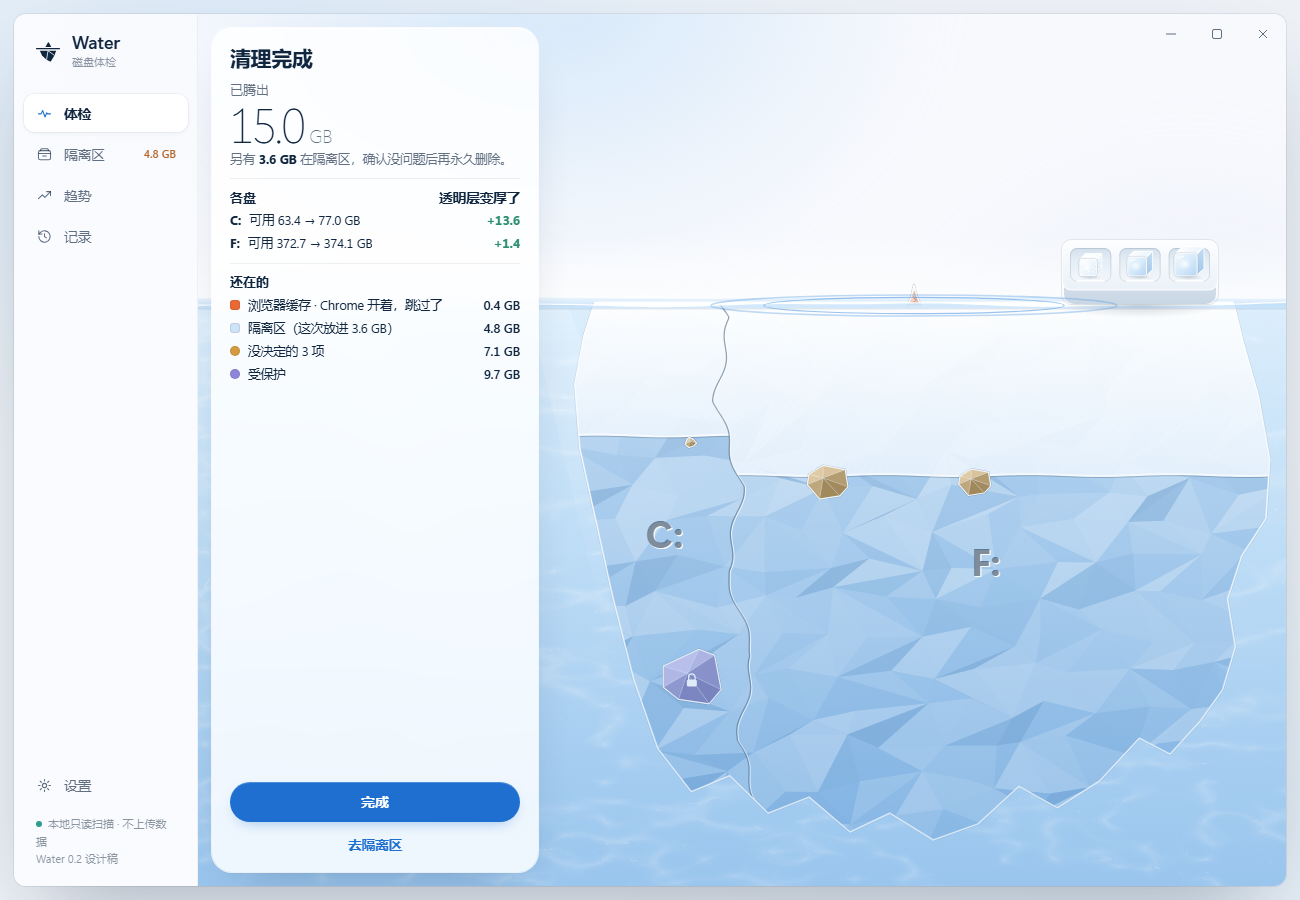
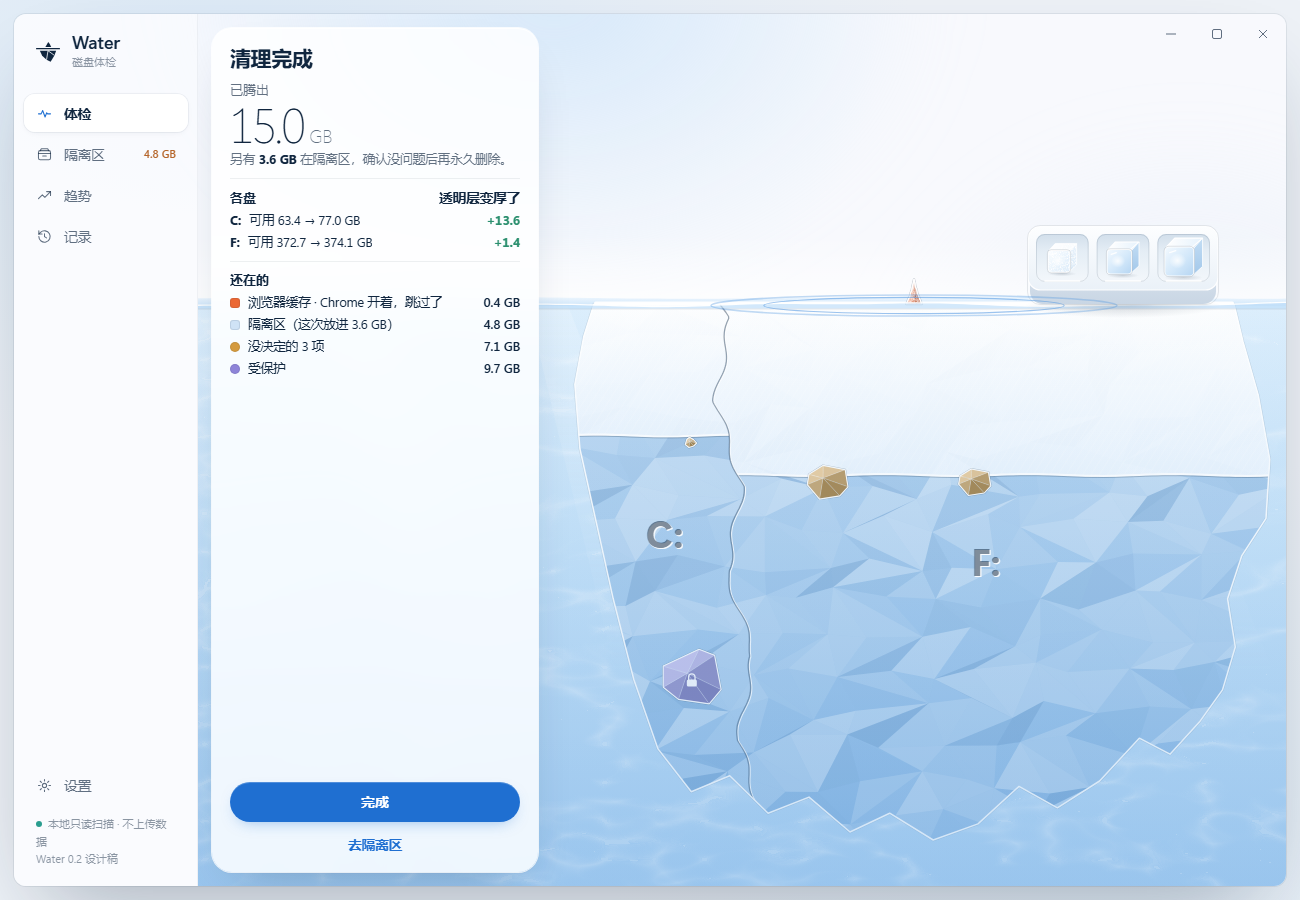
Enlarge the iceberg tip in the skeuomorphic prototype (draft 3)
The user chose to draw the tip enlarged rather than at true scale. Above
the waterline now has its own scale: tip area is proportional to
cleanable bytes with 32 GB filling it (height = 220 px x sqrt(min(1,
bytes / 32 GB))), so 15.4 GB comes out at about 0.69 of the full height
and the category bands are easy to see; the water below keeps true
capacity scale. The text panel says so in one muted line. The scan
camera is anchored horizontally on the tip, so it stays centred from the
first frame (early zoom 1.35x) to the last.

Sample totals fixed: results needs-review 10.7 GB (was 11.0), late scan
14.0 GB to match C, the space scene's stones add up to 651.8 GB.

diff --git a/docs/design/water-ui-v2/viz-skeuo.html b/docs/design/water-ui-v2/viz-skeuo.html
@@ -34,7 +34,7 @@
 .psec{display:flex;align-items:baseline;gap:8px;font-weight:600;font-size:13px;margin:8px 0 2px;padding-top:8px;border-top:1px solid var(--w-hairline);white-space:nowrap}
 .psec .pr{margin-left:auto;font-family:var(--w-font-display);font-size:13.5px;font-weight:600}
 .psec small{font-weight:400;color:var(--w-ink-3);font-size:11.5px;font-family:var(--w-font)}
-.prow{display:flex;align-items:center;gap:8px;min-height:23px;font-size:12.5px;border-radius:8px;padding:0 8px;margin:0 -8px;white-space:nowrap;transition:background .15s}
+.prow{display:flex;align-items:center;gap:8px;min-height:22px;font-size:12.5px;border-radius:8px;padding:0 8px;margin:0 -8px;white-space:nowrap;transition:background .15s}
 .prow .nm{overflow:hidden;text-overflow:ellipsis;min-width:0}
 .prow .sz{margin-left:auto;font-weight:600;white-space:nowrap}
 .prow .px{color:var(--w-ink-3);font-size:11.5px;white-space:nowrap;min-width:44px;text-align:right}
@@ -57,10 +57,10 @@
 .drow .l1 i{width:7px;height:7px;border-radius:50%;background:var(--w-level-confirm);flex:none}
 .drow .l1 .nm{font-weight:600;overflow:hidden;text-overflow:ellipsis;white-space:nowrap;flex:1;min-width:0}
 .drow .l1 .sz{font-weight:600;white-space:nowrap}
-.drow .l2{display:flex;gap:6px;align-items:center;margin:1px 0 0 14px;min-height:22px}
+.drow .l2{display:flex;gap:6px;align-items:center;margin:1px 0 0 14px;min-height:21px}
 .drow .ev,.qrow .ev{flex:1;min-width:0;color:var(--w-ink-3);font-size:11.5px;overflow:hidden;text-overflow:ellipsis;white-space:nowrap}
 .drow .ev.grow{color:var(--w-growth)}
-.drow .btn{height:22px;padding:0 11px;font-size:12px}
+.drow .btn{height:21px;padding:0 11px;font-size:12px}
 .drow .dn{display:none;flex:1;color:var(--w-ink-2);font-size:12px}
 .drow.decided .btn,.drow.decided .ev{display:none}.drow.decided .dn{display:block}
 .drow.sel{background:rgba(212,154,62,.08)}
@@ -75,6 +75,7 @@
 .qrow .bt .link{font-size:12.5px}
 .qrow .dn{font-size:12px;color:var(--w-ink-2);margin-top:6px}
 .qrow .dn:empty{display:none}
+.pnote{font-size:11.5px;color:var(--w-ink-3);line-height:1.4;margin:0 0 3px;white-space:nowrap}
 .pfoot{margin-top:auto;padding-top:12px}
 .pbtn{width:100%}
 .legend.wrap{flex-wrap:wrap;gap:6px 14px;margin-top:4px}
@@ -452,11 +453,15 @@ function spireBands(bytes){
   const tris=[];if(bytes[i]>1e-6)SP_TRIS.forEach(t=>{const q=cl(t.p);if(q.length>=3&&polyArea(q)>1e-7)tris.push({p:q,b:t.b});});
   out.push({poly:bytes[i]>1e-6?cl(SPIRE):[],tris});}
  return out;}
+/* The tip (above the waterline) has its own magnified scale; the body below keeps true capacity scale.
+   Tip area ∝ cleanable bytes against a fixed reference: a 32 GB tip is TIP_HMAX tall, so height = TIP_HMAX × sqrt(bytes / 32). */
+const TIP_REF=32,TIP_HMAX=220,K_TIP=SP_AREA*TIP_HMAX*TIP_HMAX/SP_ASP/TIP_REF;
+function drawTip(g,cx,yw,bands){return drawSpire(g,cx,yw,K_TIP,bands,{cap:TIP_REF});}
 /* bands: [{gb, c (category colour), id, off, melt, hot}] from the waterline up. Returns screen geometry per band. */
 function drawSpire(g,cx,yw,k,bands,opt){
  opt=opt||{};const tot=bands.reduce((a,b)=>a+b.gb,0);const res={bands:[],w:0,h:0,cx};
  if(tot*k<4)return res;
- const s=Math.sqrt(tot*k/(SP_AREA*SP_ASP)),h=s*SP_ASP;res.w=s;res.h=h;res.top=yw-h;
+ const s=Math.sqrt((opt.cap?Math.min(tot,opt.cap):tot)*k/(SP_AREA*SP_ASP)),h=s*SP_ASP;res.w=s;res.h=h;res.top=yw-h;
  const P=p=>[cx+p[0]*s,yw-p[1]*h];
  const geo=spireBands(bands.map(b=>b.gb));
  S('path',{d:dPath(SPIRE.map(P)),fill:'none',stroke:'rgba(16,38,63,.22)','stroke-width':2.4,'stroke-linejoin':'round'},g);
@@ -588,7 +593,7 @@ scene('home',{nav:'check',dur:0,
   const sg=segP(P,[['scope','本次范围'],['whole','本机全部']],st.view,v=>{st.view=v;show('home',{live:true});});sg.style.cssText='align-self:flex-start;margin-top:10px';
   psec(P,'各盘',keys.length===4?'本机 4 个盘':'这次的 '+keys.length+' 个盘');
   keys.forEach(k=>{const d=DRV[k];const r=drvRow(P,k,'可用 '+f1(d.free)+' GB');if(k==='E')H('span','warn',r._n,'  快满了');r._s.textContent='共 '+fmtCap(d.cap)+' GB';r._s.classList.add('mut');this.rows['p'+k]=r;hoverRow(this,r,'p'+k);});
-  psec(P,'上次体检 · 11 月 2 日','15.4 GB');
+  psec(P,'上次体检 · 11 月 2 日','15.4 GB');H('div','pnote',P,'冰山一角放大画：面积按可清字节，32 GB 画满');
   CAT.slice().reverse().forEach(b=>{const r=prow(P,{sw:b.c,n:b.n,s:f1(b.gb)+' GB'});this.rows[b.id]=r;hoverRow(this,r,b.id);});
   H('div','pcap',P,'其中 C 盘 14.0 GB · F 盘 1.4 GB');
   psec(P,'这次检查哪里？');
@@ -598,16 +603,17 @@ scene('home',{nav:'check',dur:0,
   const ft=H('div','pfoot',P);const go=H('button','btn btn-primary pbtn',ft,'开始体检');go.onclick=()=>show('scan',{play:true});const cp=H('div','pcap',ft,'只读取文件名、大小与时间');cp.style.textAlign='center';
  },
  update(t,amb){const R=this.R;R.update(amb);clear(R.gTip);clear(R.gLead);
-  const res=drawSpire(R.gTip,R.cx,R.yw,R.M.k,tipBands(b=>b.gb,{hot:this.hot}));
+  const res=drawTip(R.gTip,R.cx,R.yw,tipBands(b=>b.gb,{hot:this.hot}));
   res.bands.forEach(bb=>{if(bb)lead(R.gLead,bb.c[0],bb.c[1],this.rows[bb.b.id],this.hot===bb.b.id);});
   if(this.hot&&this.hot[0]==='p'){const L=this.letters[this.hot.slice(1)];if(L)lead(R.gLead,L.x,L.y,this.rows[this.hot],true);}
   markHot(this);}});
 
 /* ---------- 2. scan: the tip grows, the camera pulls back ---------- */
-const SCAN_STEPS=[[800,1.2],[1600,3.9],[2400,6.4],[3200,9.8],[4000,12.1],[4800,14.0],[5600,15.4]];
+const SCAN_STEPS=[[500,1.2],[1300,3.9],[2100,6.4],[2900,9.8],[3700,12.1],[4500,14.0],[5400,15.4]];
+const C_DONE=4850,F_DONE=5750;
 const FILL=[['ai','C'],['br','C'],['up','C'],['ot','C'],['dv','C'],['dv','F']];
 function catFill(found){let left=found;const g={};FILL.forEach(([id,k])=>{const b=CAT.find(x=>x.id===id);const v=clamp(left,0,b[k]);g[id]=(g[id]||0)+v;left-=v;});return g;}
-const SCAN_SEEN={codex:2000,kimi:3200,avd:5000,apk:5250,w35b:5500};
+const SCAN_SEEN={codex:2000,kimi:2900,avd:5000,apk:5250,w35b:5500};
 scene('scan',{nav:'check',dur:6200,
  build(el){this.rows={};
   const R=this.R=stage(el,GEO,'scope');bodyLetters(R.gText,R.B);this.under=S('g',null,R.gUnder);
@@ -617,19 +623,20 @@ scene('scan',{nav:'check',dur:6200,
   psec(P,'正在看的位置');
   this.loc=[['C 盘常用位置','7 类'],['F 盘','整盘']].map(r=>{const row=prow(P,{ic:true,n:r[0]+'  ',s:''});H('span','mut',row._n,r[1]);return row;});
   const stop=H('button','btn btn-glass btn-sm',P,'停止');stop.style.cssText='align-self:flex-start;margin-top:10px';
-  this.secF=psec(P,'已找到','0.0 GB');
+  this.secF=psec(P,'已找到','0.0 GB');H('div','pnote',P,'冰山一角放大画：面积按可清字节，32 GB 画满');
   this.crow={};CAT.slice().reverse().forEach(b=>{this.crow[b.id]=prow(P,{sw:b.c,n:b.n,s:'—'});});
   this.rrev=prow(P,{sw:AMBER,round:true,n:'需要你看',s:'—'});this.rpro=prow(P,{sw:VIOLET,round:true,n:'受保护',s:'—'});
   this.files=H('div','pcap',P,'');this.files.style.marginTop='8px';
   H('div','pfoot pcap',P,'声呐一个盘一个盘地扫。找到的东西浮上水面，冰山一点点长高，视野也一点点拉远、变深。');
  },
  update(t,amb){const R=this.R,M=R.M,B=R.B,yw=R.yw;R.update(amb);
-  /* close and shallow at first (the C partition and the tip), then back and deeper to the full view */
-  const cq=easeIO(seg(t,150,5900)),pc=M.byKey.C,f0x=lerp(pc.xm,R.cx,.45),fx=lerp(f0x,R.cx,cq),fy=lerp(yw+60,yw+120,cq);
-  R.cam(lerp(1.9,1,cq),fx,fy,lerp(730,fx,cq),lerp(380,fy,cq));
+  /* horizontally the camera stays on the tip (the iceberg's centre), so the tip never moves sideways;
+     it only starts closer and shallower (1.35x) and pulls back and deepens to the full view */
+  const cq=easeIO(seg(t,150,5900)),fy=lerp(yw+60,yw+120,cq);
+  R.cam(lerp(1.35,1,cq),R.cx,fy,R.cx,lerp(380,fy,cq));
   let found=0,prev=0;SCAN_STEPS.forEach(s=>{found+=(s[1]-prev)*ease((t-s[0])/350);prev=s[1];});
   const g=catFill(found);this.num.textContent=f1(found);this.secF._r.textContent=f1(found)+' GB';
-  clear(R.gTip);drawSpire(R.gTip,R.cx,yw,M.k,tipBands(b=>g[b.id]||0));
+  clear(R.gTip);drawTip(R.gTip,R.cx,yw,tipBands(b=>g[b.id]||0));
   clear(this.under);
   const co=ease((t-1200)/800);if(co>0)drawCore(this.under,R,{op:co});
   let rev=0;CARDS.forEach(c=>{const ta=SCAN_SEEN[c.id];if(t<ta)return;const op=ease((t-ta)/400);rev+=c.gb*op;const fl=1-seg(t,ta,ta+900);const p=chunkXY(R,c);drawChunk(this.under,CSH(c),p[0],p[1],c.gb*M.k,{color:AMBER,op,flash:fl>.02?fl:0});});
@@ -638,16 +645,16 @@ scene('scan',{nav:'check',dur:6200,
    const rr=this.rise[i],p=M.byKey[rr.drv];const y0=yw+R.geo.D*.8,x0=M.at(p,y0,rr.fx),x1=R.cx+(i%2?6:-6),y1=yw+3;const q=easeIO((t-sp)/(ta-sp)),fz=ease((t-ta)/350),fuse=1-fz;
    const x=lerp(x0,x1,q)+Math.sin(q*6+i)*5*(1-q),y=lerp(y0,y1-9,q)-12*fz;drawChunk(this.under,shapeOf('r'+i,500+i),x,y,inc*M.k*fuse*fuse,{color:best?best.c:null,op:clamp(q*5)*fuse});
    for(let k2=0;k2<3;k2++){const bq=clamp(q-.07*(k2+1));if(bq>0&&bq<1)S('circle',{cx:lerp(x0,x1,bq)+Math.sin(bq*9+k2)*3,cy:lerp(y0,y1,bq)+9+k2*3,r:1.3+k2*.5,fill:'none',stroke:'rgba(255,255,255,.9)','stroke-width':.8},this.under);}});
-  const act=t<4800?'C':(t<5800?'F':null);
+  const act=t<C_DONE?'C':(t<F_DONE?'F':null);
   ['C','F'].forEach(k=>{B.setHL(k,k===act);clear(B.parts[k].sonar);});
-  if(act){const p=M.byKey[act],h=B.parts[act],t0=act==='C'?0:4800,Rm=Math.max(Math.abs(R.cx-p.x0),Math.abs(R.cx-p.x1))+R.geo.D;
+  if(act){const p=M.byKey[act],h=B.parts[act],t0=act==='C'?0:C_DONE,Rm=Math.max(Math.abs(R.cx-p.x0),Math.abs(R.cx-p.x1))+R.geo.D;
    for(let m=0;m<8;m++){const age=t-t0-m*1600;if(age<0||age>2600)continue;const q=age/2600,rr=10+q*Rm,fo=Math.pow(1-q,.8);
     S('circle',{cx:R.cx,cy:yw,r:rr,fill:'none',stroke:'#fff','stroke-width':16,opacity:(.26*fo).toFixed(3)},h.sonar);
     S('circle',{cx:R.cx,cy:yw,r:rr,fill:'none',stroke:'#fff','stroke-width':2.4,opacity:(.95*fo).toFixed(3)},h.sonar);
     S('circle',{cx:R.cx,cy:yw,r:Math.max(1,rr-10),fill:'none',stroke:'var(--w-accent)','stroke-width':1.2,opacity:(.55*fo).toFixed(3)},h.sonar);}}
   const setLoc=(r,mode,txt)=>{setIc(r,mode);r._s.textContent=txt;r._s.classList.toggle('mut',mode!=='ok');};
-  setLoc(this.loc[0],t<4800?'run':'ok',t<4800?'扫描中':'14.0 GB');
-  setLoc(this.loc[1],t<4800?'wait':(t<5800?'run':'ok'),t<4800?'等待':(t<5800?'扫描中':'1.4 GB'));
+  setLoc(this.loc[0],t<C_DONE?'run':'ok',t<C_DONE?'扫描中':'14.0 GB');
+  setLoc(this.loc[1],t<C_DONE?'wait':(t<F_DONE?'run':'ok'),t<C_DONE?'等待':(t<F_DONE?'扫描中':'1.4 GB'));
   CAT.forEach(b=>{const r=this.crow[b.id],v=g[b.id]||0;r._s.textContent=v>.05?f1(v)+' GB':'—';r.classList.toggle('dim',v<=.05);});
   this.rrev._s.textContent=rev>.05?f1(rev)+' GB':'—';this.rrev.classList.toggle('dim',rev<=.05);
   this.rpro._s.textContent=co>0?'9.7 GB':'—';this.rpro.classList.toggle('dim',co<=0);
@@ -668,11 +675,11 @@ scene('results',{nav:'check',dur:0,
   heroP(P,'可以放心清理','15.4');
   const mk=H('div','pcap',P);mk.append('缓存 12.1 GB · 旧版本 3.3 GB · ');H('span',null,mk,'比上次多 2.1 GB').style.color='var(--w-growth)';
   this.btn=H('button','btn btn-primary pbtn',P,'清理推荐项 15.4 GB');this.btn.style.marginTop='12px';this.btn.onclick=()=>show('clean',{play:true});
-  this.s1=psec(P,'水面以上 · 推荐清理','15.4 GB');
+  this.s1=psec(P,'水面以上 · 推荐清理','15.4 GB');H('div','pnote',P,'冰山一角放大画：面积按可清字节，32 GB 画满');
   CAT.slice().reverse().forEach(b=>{const r=prow(P,{sw:b.c,n:b.n,s:f1(b.gb)+' GB'});r.classList.add('click');r.title='点一下：这次不清';r.onclick=()=>{st.off[b.id]=!st.off[b.id];self.sync();};this.rows[b.id]=r;hoverRow(this,r,b.id);});
   const chr=prow(P,{sw:AMBER,n:'你选的',s:''});this.rows.chosen=chr;hoverRow(this,chr,'chosen');
   this.skipCap=H('div','pcap',P,'');
-  psec(P,'水面下 · 需要你看','5 项 · 11.0 GB');
+  psec(P,'水面下 · 需要你看','5 项 · 10.7 GB');
   CARDS.forEach(c=>{const d=H('div','drow',P);const l1=H('div','l1',d);H('i',null,l1);const nm=H('span','nm',l1,c.n);nm.title=c.n;H('span','sz',l1,f1(c.gb)+' GB');
    const l2=H('div','l2',d);H('span','ev'+(c.leak?' grow':''),l2,c.drv+' 盘 · '+c.ev);const kb=H('button','btn btn-glass',l2,'保留');const cb=H('button','btn btn-outline',l2,'清理');d._dn=H('span','dn',l2);
    kb.onclick=()=>self.decide(c.id,'keep');cb.onclick=()=>self.decide(c.id,'clean');this.rows[c.id]=d;hoverRow(this,d,c.id);});
@@ -699,7 +706,7 @@ scene('results',{nav:'check',dur:0,
    if(d&&d.mode==='keep'){const dt=RM?1e9:n-d.t,p=ease(dt/900);y=o.y+40*p;fr=p;op=1-.3*p;}
    clear(o.g);if(vis)drawChunk(o.g,CSH(c),x,y,c.gb*M.k*sc*sc,{color:AMBER,frost:fr,op,hot:this.hot===c.id});
    if(ld&&this.hot===c.id)lead(R.gLead,x,y,this.rows[c.id],true);});
-  clear(R.gTip);const res=drawSpire(R.gTip,R.cx,yw,M.k,tipBands(b=>b.gb,{chosen:joined,off:st.off,hot:this.hot}));
+  clear(R.gTip);const res=drawTip(R.gTip,R.cx,yw,tipBands(b=>b.gb,{chosen:joined,off:st.off,hot:this.hot}));
   res.bands.forEach(bb=>{if(bb)lead(R.gLead,bb.c[0],bb.c[1],this.rows[bb.b.id],this.hot===bb.b.id);});
   if(this.hot==='core')lead(R.gLead,this.core[0],this.core[1],this.rows.core,true);
   if(this.hot&&this.hot[0]==='p'){const L=this.letters[this.hot.slice(1)];if(L)lead(R.gLead,L.x,L.y,this.rows[this.hot],true);}
@@ -709,16 +716,16 @@ scene('results',{nav:'check',dur:0,
 const CL_ORDER=[['dv',600,1100],['ot',1600,1000],['up',2500,1000],['br',3400,1100],['ai',4400,1200]];
 const SKIP={br:.4};
 function cleanState(t){const g={},melt={},p={};let fC=0,fF=0;CL_ORDER.forEach(o=>{const b=CAT.find(x=>x.id===o[0]);const keep=SKIP[b.id]||0,net=b.gb-keep;const q=ease(seg(t,o[1],o[1]+o[2]));const gone=net*q;g[b.id]=b.gb-gone;melt[b.id]=q>0&&q<1?q:0;p[b.id]=q;fC+=gone*((b.C-keep)/net);fF+=gone*(b.F/net);});return{g,melt,p,fC,fF};}
-function trayOnDeck(R){const w=156,h=50,x=R.geo.x1-w-16,y=R.yw-h-14;return drawTray(R.gTop,x,y,w,h,3);}
+function trayOnDeck(R){const w=190,h=64,x=R.geo.x1-w-16,y=R.yw-h-14;return drawTray(R.gTop,x,y,w,h,3);}
 scene('clean',{nav:'check',dur:6000,
  build(el){this.rows={};const R=this.R=stage(el,GEO,'scope'),M=R.M;bodyLetters(R.gText,R.B);drawCore(R.gUnder,R);
   CARDS.forEach(c=>{if(c.id==='codex'||c.id==='w35b')return;const p=chunkXY(R,c);drawChunk(R.gUnder,CSH(c),p[0],p[1],c.gb*M.k,{color:AMBER});});
-  this.tr=trayOnDeck(R);const a0=Math.sqrt(1.2*M.k),p0=cubeIn(this.tr.wells[0],a0);drawCube(this.tr.g,p0.x,p0.y,a0,{frost:1});
+  this.tr=trayOnDeck(R);const a0=Math.sqrt(1.2*K_TIP),p0=cubeIn(this.tr.wells[0],a0);drawCube(this.tr.g,p0.x,p0.y,a0,{frost:1});
   this.gFly=S('g',null,R.gTop);this.gDrop=S('g',null,R.gTop);
-  const r0=drawSpire(S('g',{opacity:0},R.gTop),R.cx,R.yw,M.k,tipBands(b=>b.gb,{chosen:3.6}));this.chAt=r0.bands[0].c;
+  const r0=drawTip(S('g',{opacity:0},R.gTop),R.cx,R.yw,tipBands(b=>b.gb,{chosen:3.6}));this.chAt=r0.bands[0].c;
   const P=panel(el);ptitle(P,'正在清理','推荐的缓存直接删除；你选的 2 项先放进隔离区，还在原来的盘上。');
   this.num=heroP(P,'已腾出','0.0');
-  psec(P,'清理进度','从冰山顶上开始');
+  psec(P,'清理进度','从冰山顶上开始');H('div','pnote',P,'冰山一角放大画：面积按可清字节，32 GB 画满');
   CL_ORDER.forEach(o=>{const b=CAT.find(x=>x.id===o[0]);this.rows[b.id]=prow(P,{ic:true,sw:b.c,n:b.n,s:f1(b.gb)+' GB',x:''});});
   this.rows.q=prow(P,{ic:true,sw:AMBER,n:'你选的 2 项 → 隔离区',s:'3.6 GB',x:''});
   psec(P,'各盘');this.dr={};['C','F'].forEach(k=>{const r=drvRow(P,k,'可用 '+f1(DRV[k].free)+' →');this.dr[k]=r._s;r._s.classList.add('acc');});
@@ -728,12 +735,12 @@ scene('clean',{nav:'check',dur:6000,
  update(t,amb){const R=this.R,M=R.M,yw=R.yw;R.update(amb);clear(R.gLead);
   const cs=cleanState(t);clear(R.gTip);clear(this.gFly);clear(this.gDrop);
   const lift=ease(seg(t,200,600));
-  const res=drawSpire(R.gTip,R.cx,yw,M.k,tipBands(b=>cs.g[b.id],{chosen:3.6*(1-lift),melt:cs.melt}));
+  const res=drawTip(R.gTip,R.cx,yw,tipBands(b=>cs.g[b.id],{chosen:3.6*(1-lift),melt:cs.melt}));
   res.bands.forEach(bb=>{if(!bb)return;const id=bb.b.id;if(id!=='chosen'&&cs.p[id]<1)lead(R.gLead,bb.c[0],bb.c[1],this.rows[id],!!cs.melt[id]);
    if(!bb.b.melt)return;const o=CL_ORDER.find(x=>x[0]===id);for(let j=0;j<6;j++){const t0=o[1]+j*o[2]/6,q=seg(t,t0,t0+520);if(q<=0)continue;const r=rng(j*13+o[1])();const x=bb.c[0]+(r-.5)*res.w*.5,y0=bb.c[1];
     if(q<1){const y=lerp(y0,yw,q*q);S('path',{d:`M${x.toFixed(1)} ${(y-4).toFixed(1)}q2.6 3.6 0 5.2q-2.6-1.6 0-5.2Z`,fill:hueRGB(bb.b.c,.8),stroke:'#fff','stroke-width':.6},this.gDrop);}
     const rq=seg(t,t0+520,t0+1100);if(rq>0&&rq<1)S('ellipse',{cx:x,cy:yw+1,rx:3+14*rq,ry:1+2.4*rq,fill:'none',stroke:'#fff','stroke-width':1.2,opacity:(1-rq).toFixed(2)},this.gDrop);}});
-  const W=this.tr.wells;[[1,1.5,-1],[2,2.1,1]].forEach(([wi,gb,side],i)=>{const a=Math.sqrt(gb*M.k),end=cubeIn(W[wi],a),t0=200+i*250;if(t<t0)return;
+  const W=this.tr.wells;[[1,1.5,-1],[2,2.1,1]].forEach(([wi,gb,side],i)=>{const a=Math.sqrt(gb*K_TIP),end=cubeIn(W[wi],a),t0=200+i*250;if(t<t0)return;
    const up=easeIO(seg(t,t0,t0+700)),fly=easeIO(seg(t,t0+700,t0+1900));const ux=this.chAt[0]+side*a*.6-a/2,uy=this.chAt[1]+a/2-70*up;const cx=lerp(ux,end.x,.5),cy=Math.min(uy,end.y)-80;
    const x=(1-fly)*(1-fly)*ux+2*(1-fly)*fly*cx+fly*fly*end.x,y=(1-fly)*(1-fly)*uy+2*(1-fly)*fly*cy+fly*fly*end.y;
    const g=drawCube(this.gFly,x,y,a,{noShadow:fly<.98});if(fly>0&&fly<1)g.setAttribute('transform',`rotate(${(Math.sin(fly*Math.PI)*-14).toFixed(1)} ${(x+a/2).toFixed(1)} ${(y-a/2).toFixed(1)})`);});
@@ -748,9 +755,9 @@ scene('done',{nav:'check',dur:2600,
  build(el){this.rows={};this.hot=null;const R=this.R=stage(el,GEO,'scope'),M=R.M;
   R.B.setFree('C',77.0);R.B.setFree('F',374.1);bodyLetters(R.gText,R.B);const cg=S('g',null,R.gUnder);this.core=drawCore(cg,R);hoverObj(this,cg,'core');
   this.left=[];CARDS.forEach(c=>{if(c.id==='codex'||c.id==='w35b')return;const p=chunkXY(R,c);drawChunk(R.gUnder,CSH(c),p[0],p[1],c.gb*M.k,{color:AMBER});this.left.push(p);});
-  const tr=trayOnDeck(R);[[0,1.2,1],[1,1.5,0],[2,2.1,0]].forEach(([wi,gb,fr])=>{const a=Math.sqrt(gb*M.k),p=cubeIn(tr.wells[wi],a);drawCube(tr.g,p.x,p.y,a,{frost:fr});});
+  const tr=trayOnDeck(R);[[0,1.2,1],[1,1.5,0],[2,2.1,0]].forEach(([wi,gb,fr])=>{const a=Math.sqrt(gb*K_TIP),p=cubeIn(tr.wells[wi],a);drawCube(tr.g,p.x,p.y,a,{frost:fr});});
   this.trayAt=[tr.wells[1].x+tr.wells[1].w/2,tr.wells[1].y+3];
-  const res=drawSpire(R.gTip,R.cx,R.yw,M.k,[{gb:.4,c:CAT[1].c,id:'br'}]);this.nub=res.bands[0]?res.bands[0].c:[R.cx,R.yw-4];
+  const res=drawTip(R.gTip,R.cx,R.yw,[{gb:.4,c:CAT[1].c,id:'br'}]);this.nub=res.bands[0]?res.bands[0].c:[R.cx,R.yw-4];
   this.rip=S('g',null,R.gTop);
   const P=panel(el);ptitle(P,'清理完成');
   heroP(P,'已腾出','15.0');
@@ -864,14 +871,14 @@ scene('trends',{nav:'trends',dur:0,
 
 /* ---------- 8. space: F's used ice as stones, area ∝ size ---------- */
 const OWN={项目:'#2a78d6',游戏:'#eb6834',资料:'#1baf7a',系统与程序:'#6250d6',其它:'#8A96A6'};
-const STONES=[['denglou',319,'项目'],['SteamLibrary',194,'游戏'],['Riot Games',53,'游戏'],['cdisk-cache',31.6,'资料'],['smaltalk',28.4,'项目'],['其它',13.2,'其它'],['Mirasim-A',12.4,'资料']];
+const STONES=[['denglou',319,'项目'],['SteamLibrary',194,'游戏'],['Riot Games',53,'游戏'],['cdisk-cache',31.6,'资料'],['smaltalk',28.4,'项目'],['其它',13.4,'其它'],['Mirasim-A',12.4,'资料']];
 function tint(hex,a){const c=hx(hex),base=[238,242,246];return'rgb('+c.map((v,i)=>Math.round(lerp(base[i],v,a))).join(',')+')';}
 const GEO_S={x0:396,x1:1036,yw:236,D:590};
 scene('space',{nav:'check',dur:0,
  build(el){this.rows={};this.hot=null;
   const R=this.R=stage(el,GEO_S,'whole'),M=R.M,B=R.B;['C','D','E'].forEach(k=>B.setDim(k,true));B.setHL('F',true);
   bodyLetters(R.gText,B,{dim:{C:1,D:1,E:1},inFree:{F:1}});
-  drawSpire(S('g',{opacity:.28},R.gTip),R.cx,R.yw,M.k,tipBands(b=>b.gb));
+  drawTip(S('g',{opacity:.28},R.gTip),R.cx,R.yw,tipBands(b=>b.gb));
   const p=M.byKey.F,fy=B.parts.F.fy+3,rows=[];p.rw.forEach((r,j)=>{const y=R.yw+j;if(y>fy&&r.w>0)rows.push({y,l:r.l,r:r.r});});
   const areaIn=(xa,xb,ya,yb)=>rows.reduce((a,r)=>r.y<ya||r.y>=yb?a:a+Math.max(0,Math.min(r.r,xb)-Math.max(r.l,xa)),0);
   const tot=areaIn(-1e4,1e4,0,1e4),sum=STONES.reduce((a,s)=>a+s[1],0);
